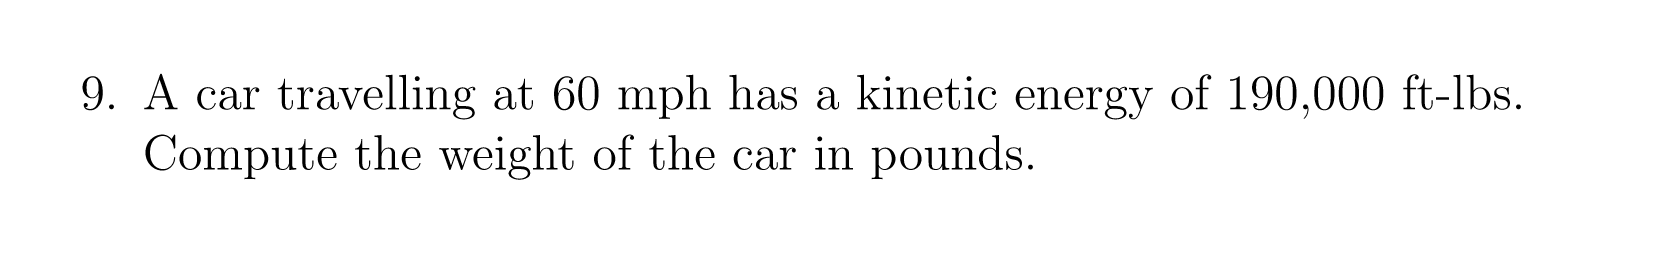
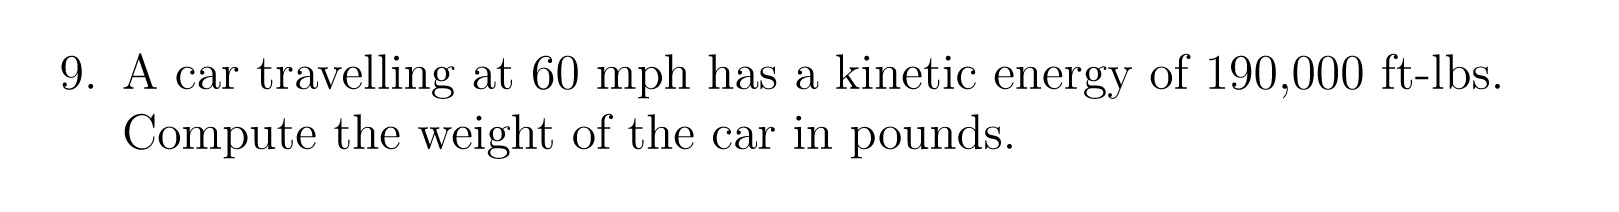
hw

Changed region(s): [[0.0309, 0.2547, 0.9265, 0.4811], [0.0618, 0.5094, 0.6177, 0.7075], [0.4941, 0.2547, 0.525, 0.283]]

diff --git a/teaching/Applied-Fluids/Homework/unit1.tex b/teaching/Applied-Fluids/Homework/unit1.tex
@@ -1,4 +1,4 @@
-\documentclass[multi,preview,varwidth=false,border=5,class=extarticle,12pt]{standalone}
+\documentclass[multi,preview,varwidth=false,12pt]{standalone}
 \newcounter{Qnum}
 
 \usepackage{assignments}

diff --git a/teaching/Applied-Fluids/Homework/Units.md b/teaching/Applied-Fluids/Homework/Units.md
@@ -6,34 +6,30 @@ title: Dimensions & Units
 # Dimensions & Units
 {:.no_toc}
 
-<div style="width: 600px">
+![](png/unit1-001.png)
 
-1. ![](png/unit1-001.png)
+![](png/unit1-002.png)
 
-1. ![](png/unit1-002.png)
+![](png/unit1-003.png)
 
-1. ![](png/unit1-003.png)
+![](png/unit1-004.png)
 
-1. ![](png/unit1-004.png)
+![](png/unit1-005.png)
 
-1. ![](png/unit1-005.png)
+![](png/unit1-006.png)
 
-1. ![](png/unit1-006.png)
+![](png/unit1-007.png)
 
-1. ![](png/unit1-007.png)
+![](png/unit1-008.png)
 
-1. ![](png/unit1-008.png)
+![](png/unit1-009.png)
 
-1. ![](png/unit1-009.png)
+![](png/unit1-010.png)
 
-1. ![](png/unit1-010.png)
+![](png/unit1-011.png)
 
-1. ![](png/unit1-011.png)
+![](png/unit1-012.png)
 
-1. ![](png/unit1-012.png)
+![](png/unit1-013.png)
 
-1. ![](png/unit1-013.png)
-
-1. ![](png/unit1-014.png)
-
-</div>
+![](png/unit1-014.png)
